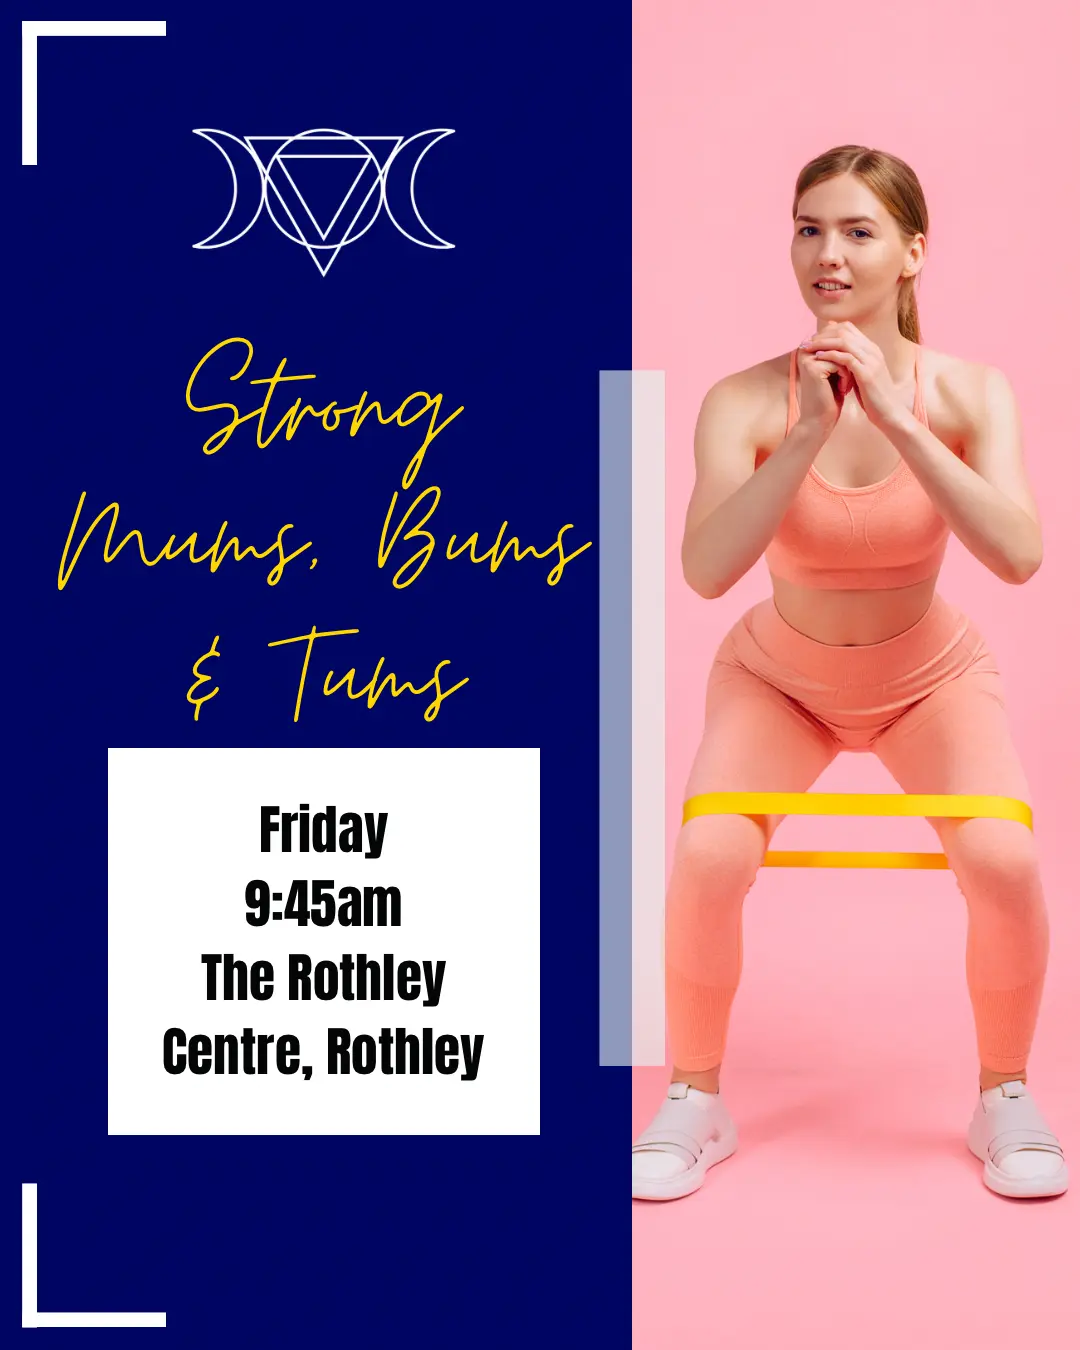
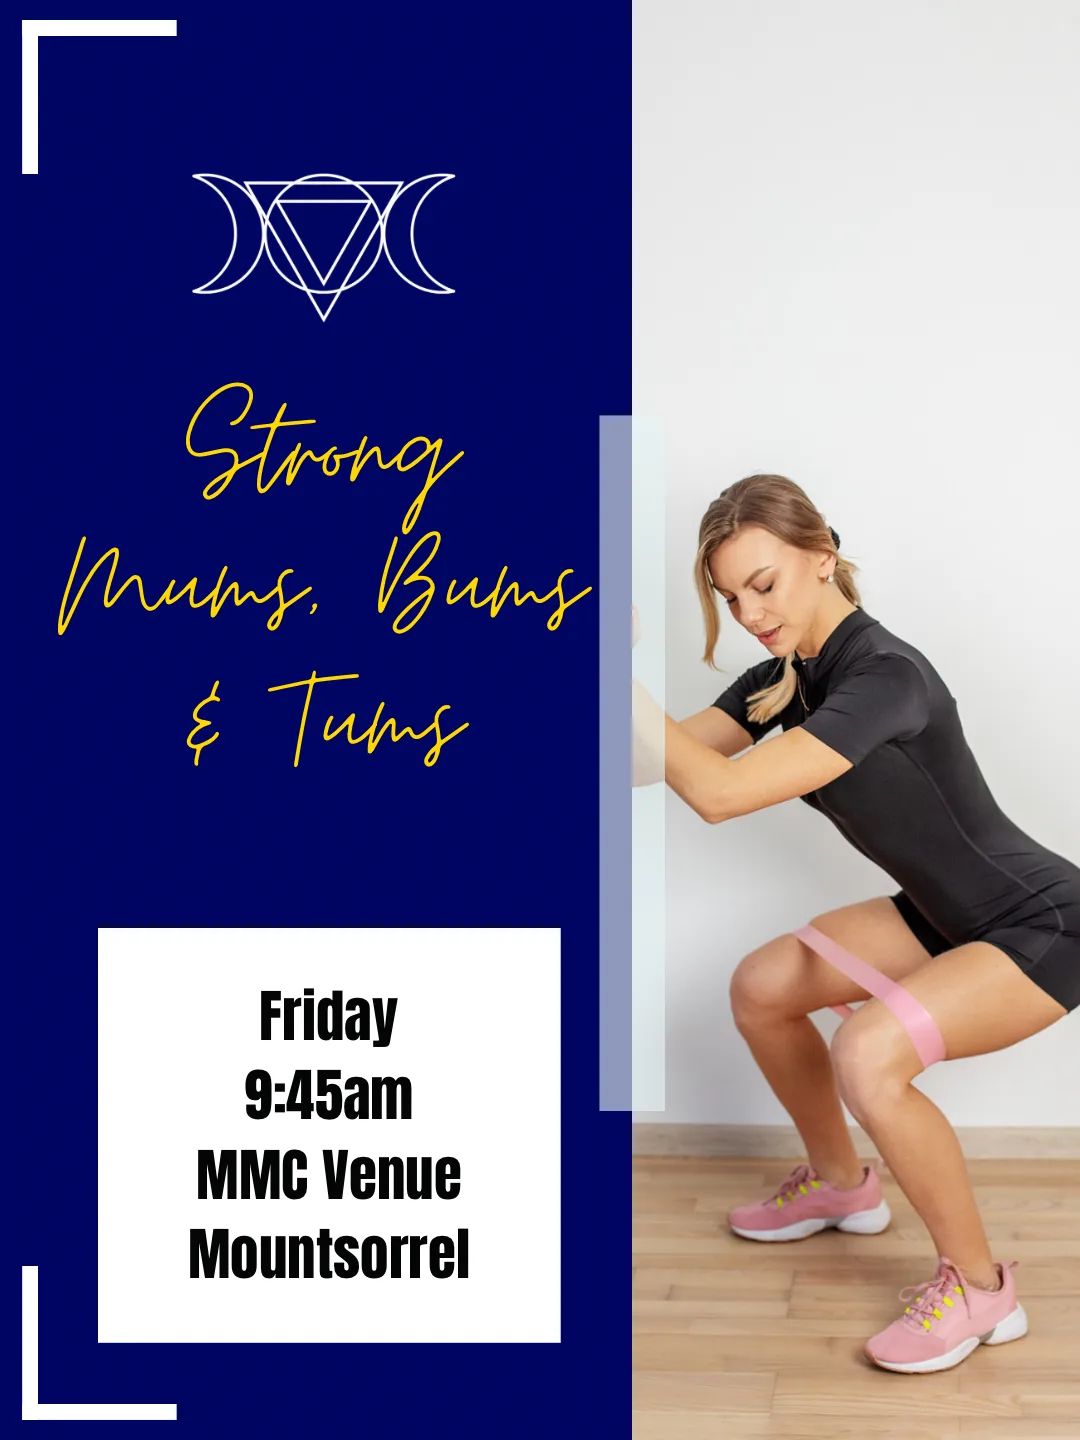
Use updated Strong Mums, Bums & Tums card for Mountsorrel
Claude-Session: https://claude.ai/code/session_018NxwWcP4uB2dKjGJKm77zn

diff --git a/leicester/fitnessclasses/motherhoodclasses.html b/leicester/fitnessclasses/motherhoodclasses.html
@@ -167,7 +167,7 @@
             <article class="mh-booking-card">
                 <div class="row align-items-center">
                     <div class="col-auto">
-                        <img src="../../images/strong_mums_bums_tums.webp" alt="Strong Mums Bums and Tums fitness class with Eir &amp; Wild" width="1080" height="1350" loading="lazy">
+                        <img src="../../images/strong_mums_bums_tums.webp" alt="Strong Mums, Bums &amp; Tums, Friday 9:45am at MMC Venue, Mountsorrel" width="1080" height="1440" loading="lazy">
                     </div>
                     <div class="col p-3 p-md-4">
                         <h2>Strong Mums, Bums & Tums</h2>
